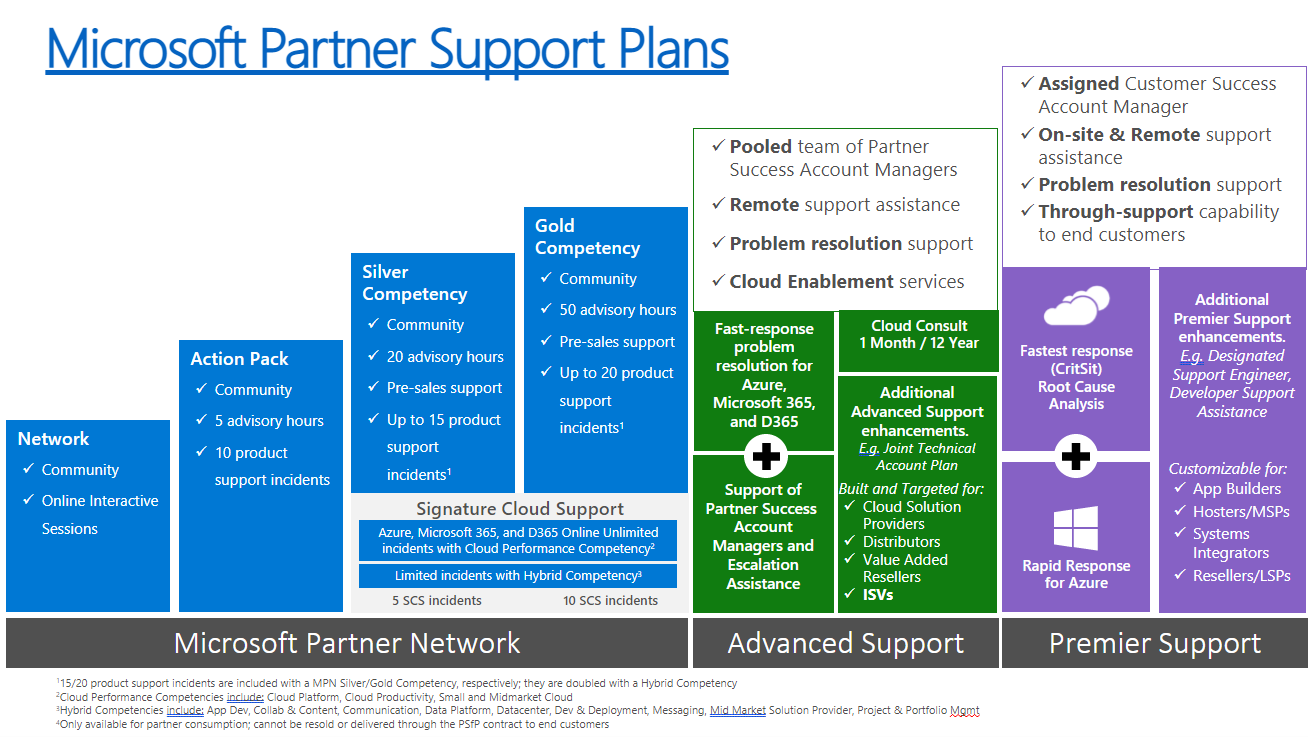
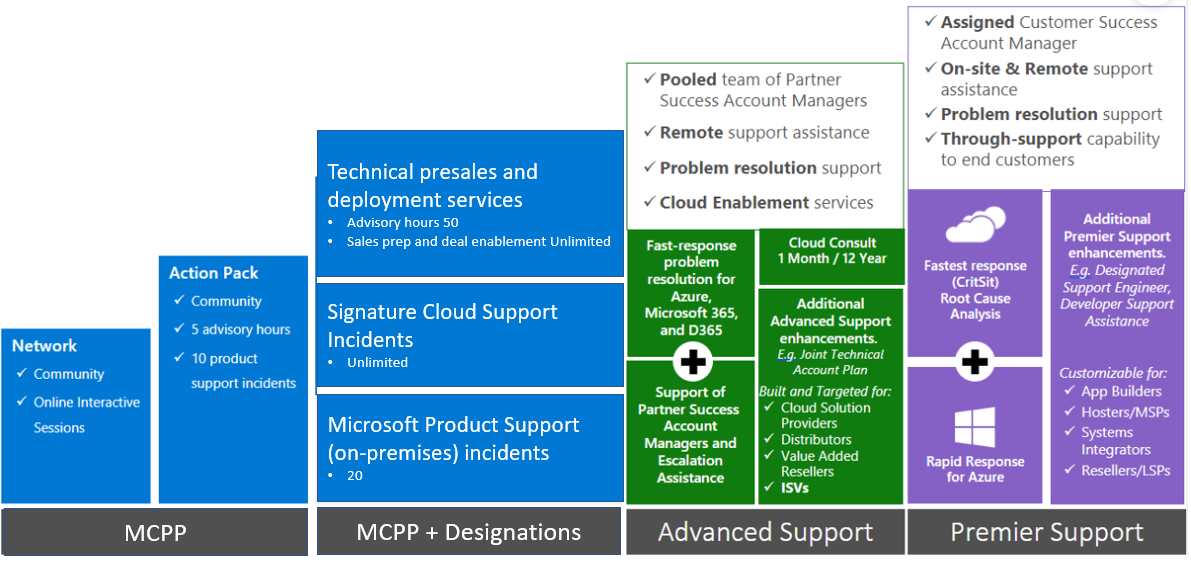
updated support to reflect MCPP changes

diff --git a/PartnerSupport.md b/PartnerSupport.md
@@ -4,6 +4,8 @@
 
 ## Purpose
 
+A Collection of resources for Microsoft to support partners part of the (Microsoft Cloud Partner Program)
+
 To contribute to the PartnerCrucible, see [Contributor's Guide](ContributorsGuide).
 
 ### Global PArtner Services (GPS) Technical Team
@@ -16,7 +18,7 @@ The Microsoft Canada Global Partner Solutions Technical Team will provide techni
 
 - Partners may have a number of customer and partner support contracts in place.
 - Partner support options range from those included with the Microsoft Partner Network (MPN) membership to Advanced and Premier support intended for CSP and hosters.
-- The cloud support options are described here: Compare Microsoft Partner Support Offerings
+- The cloud support options are described here: [Compare Microsoft Partner Support Offerings](https://partner.microsoft.com/en-us/support/partnersupport#:~:text=Compare%20partner%20support%20plans%20%20%20%20,or%20custome%20...%20%209%20more%20rows%20)
 
 ![Partner Support Options](./Library/Partner%20Support.png)
 
@@ -25,7 +27,7 @@ Option | Description | Link
  [Partner Support](http://partner.microsoft.com/support) | Create an online request for all programs supported in Partner Center. In Partner Center, we'll provide you with a personalized experience. |
 [Technical Presales and Deployment Services](https://docs.microsoft.com/en-us/partner-center/technical-benefits) |Use Technical Presales and Deployment services (TPD) for remote, personalized, one-to-one consultations to build your technical capabilities faster, so you can increase sales, deploy more effectively, and accelerate app development.| [Create a Technical Presales and Deployment Services (TPD) request](https://partner.microsoft.com/dashboard/mpn/membership/benefits/technical/createadvisoryhours-servicerequest).
 [Advanced Support for Partners](https://aka.ms/ASfP)|Keep your customers satisfied and your business running smoothly with quick and elevated technical support benefits for Microsoft Azure, Microsoft365 and Dynamics365, a closer relationship with Microsoft and access to proactive cloud enablement services.|
-[Premier Support for Partners](https://aka.ms/PSfP)|icrosoft Premier Support for Partners offers complete, end-to-end managed support across the full Microsoft platform to meet your complex needs, expand your capabilities in the cloud, and collaborate more strategically with Microsoft.| ...|
+[Premier Support for Partners](https://aka.ms/PSfP)| Microsoft Premier Support for Partners offers complete, end-to-end managed support across the full Microsoft platform to meet your complex needs, expand your capabilities in the cloud, and collaborate more strategically with Microsoft.| ...|
 
 ## Partner Support FAQ
 
